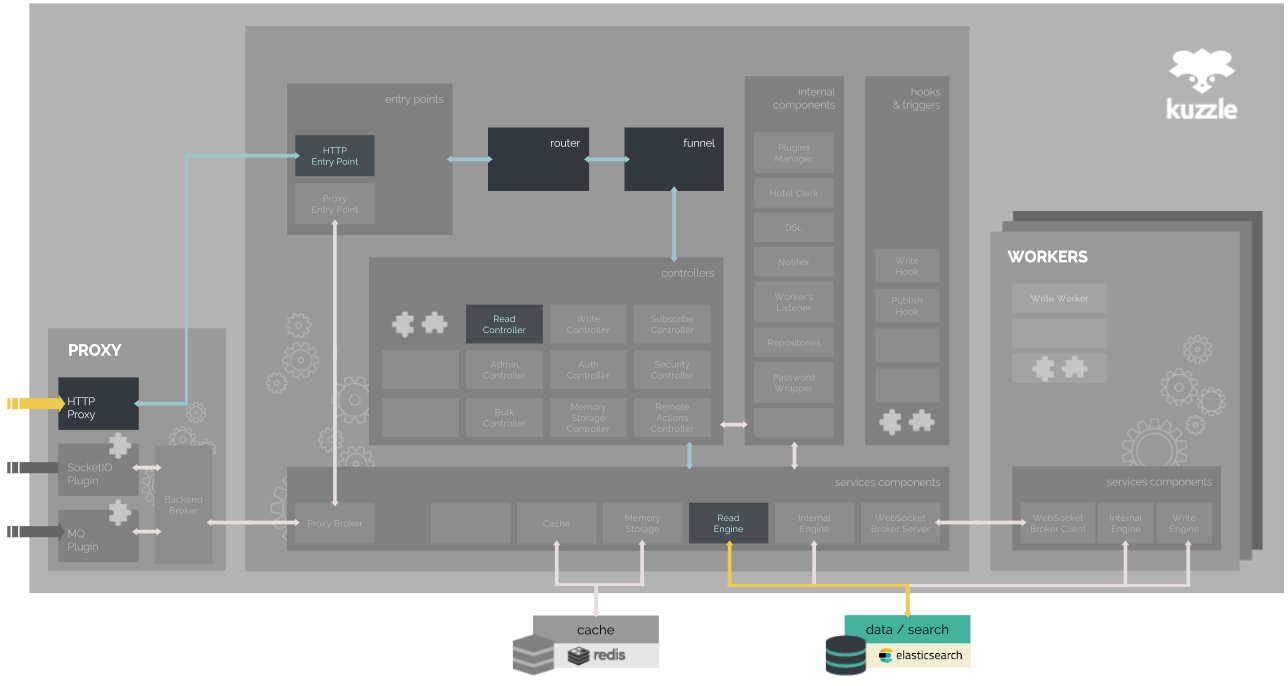
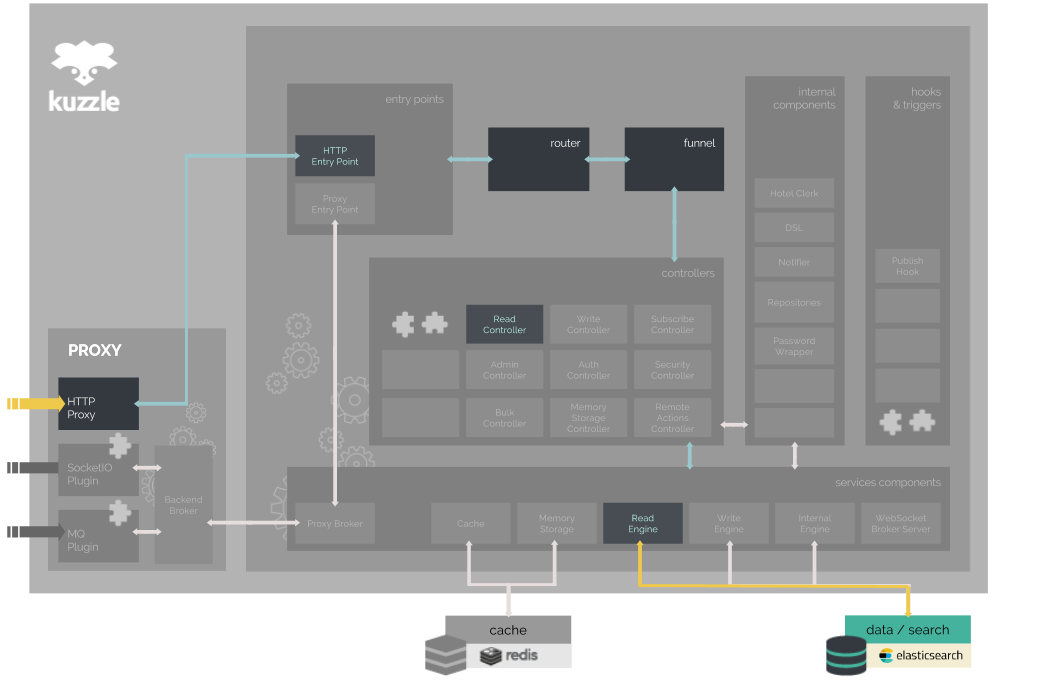
kuz-642 - worker is dead

diff --git a/source/includes/plugins/_01-managing-plugins-cli.md b/source/includes/plugins/_01-managing-plugins-cli.md
@@ -39,10 +39,8 @@ You can get an overview of installed plugins and their activation status using t
 { 'kuzzle-plugin-auth-passport-local': 
    { npmVersion: '2.0.3',
      activated: true,
-     loadedBy: 'server',
      config: 
-      { loadedBy: 'server',
-        secret: 'changeme',
+      { secret: 'changeme',
         algorithm: 'sha1',
         digest: 'hex' } },
   'kuzzle-plugin-logger': 
@@ -55,8 +53,7 @@ You can get an overview of installed plugins and their activation status using t
                { error: { level: 'error', filename: 'kuzzle-error.log' },
                  warning: { level: 'warn', filename: 'kuzzle-warning.log' } },
               addDate: true },
-           stdout: { level: 'info', addDate: true } },
-        loadedBy: 'all' } } }`
+           stdout: { level: 'info', addDate: true } } } }
 ```
 
 ### > Install a plugin
@@ -103,8 +100,7 @@ $ ./bin/kuzzle plugins --get kuzzle-plugin-logger
             { error: { level: 'error', filename: 'kuzzle-error.log' },
               warning: { level: 'warn', filename: 'kuzzle-warning.log' } },
            addDate: true },
-        stdout: { level: 'info', addDate: true } },
-     loadedBy: 'all' } }
+        stdout: { level: 'info', addDate: true } } } }
 ```
 
 ### > Modify a plugin configuration
@@ -132,8 +128,7 @@ $ ./bin/kuzzle plugins --get kuzzle-plugin-logger
              { error: { level: 'error', filename: 'kuzzle-error.log' },
                warning: { level: 'warn', filename: 'kuzzle-warning.log' } },
             addDate: true },
-         stdout: { level: 'info', addDate: true } },
-      loadedBy: 'all' } }
+         stdout: { level: 'info', addDate: true } } } }
 $ ./bin/kuzzle plugins --set '{ "stdout": { "level": "debug"} }' kuzzle-plugin-logger
   { npmVersion: '2.0.2',
     activated: true,
@@ -144,9 +139,7 @@ $ ./bin/kuzzle plugins --set '{ "stdout": { "level": "debug"} }' kuzzle-plugin-l
               { error: { level: 'error', filename: 'kuzzle-error.log' },
                 warning: { level: 'warn', filename: 'kuzzle-warning.log' } },
              addDate: true },
-          stdout: { level: 'info', addDate: true } },
-       loadedBy: 'all',
-       stdout: { level: 'debug' } } }
+          stdout: { level: 'debug' } } } }
 ```
 
 Replacing a plugin configuration on the command-line:
@@ -162,8 +155,7 @@ $ ./bin/kuzzle plugins --get kuzzle-plugin-logger
              { error: { level: 'error', filename: 'kuzzle-error.log' },
                warning: { level: 'warn', filename: 'kuzzle-warning.log' } },
             addDate: true },
-         stdout: { level: 'info', addDate: true } },
-      loadedBy: 'all' } }
+         stdout: { level: 'info', addDate: true } } } }
 $ ./bin/kuzzle plugins --replace '{"stdout": {"level": "debug", "addDate": true}}' kuzzle-plugin-logger
   { npmVersion: '2.0.2',
     activated: true,
@@ -195,12 +187,10 @@ $ ./bin/kuzzle plugins --get kuzzle-plugin-logger
             { error: { level: 'error', filename: 'kuzzle-error.log' },
               warning: { level: 'warn', filename: 'kuzzle-warning.log' } },
            addDate: true },
-        stdout: { level: 'info', addDate: true } },
-     loadedBy: 'all' } }
+        stdout: { level: 'info', addDate: true } } } }
 $ ./bin/kuzzle plugins --unset 'services' kuzzle-plugin-logger
   { npmVersion: '2.0.2',
-    activated: true,
-    config: { loadedBy: 'all' } }     
+    activated: true }
 ```
 <aside class="notice">NB: Only root properties can be unset</aside>
 
@@ -232,8 +222,7 @@ To deactivate a plugin:
             { error: { level: 'error', filename: 'kuzzle-error.log' },
               warning: { level: 'warn', filename: 'kuzzle-warning.log' } },
            addDate: true },
-        stdout: { level: 'info', addDate: true } },
-     loadedBy: 'all' } }
+        stdout: { level: 'info', addDate: true } } } }
 ```
 
 
@@ -250,7 +239,6 @@ $ ./bin/kuzzle plugins --activate kuzzle-plugin-logger
               { error: { level: 'error', filename: 'kuzzle-error.log' },
                 warning: { level: 'warn', filename: 'kuzzle-warning.log' } },
              addDate: true },
-          stdout: { level: 'info', addDate: true } },
-       loadedBy: 'all' } }
+          stdout: { level: 'info', addDate: true } } } }
 ```
 

diff --git a/source/includes/user_guide/_03-cli.md b/source/includes/user_guide/_03-cli.md
@@ -26,7 +26,7 @@ $ ./bin/kuzzle
     install                      install all plugins configured in .kuzzlerc
     likeAvirgin [options]        delete Kuzzle configuration and users from database. Makes Kuzzle look like a virgin, touched for the very first time
     plugins [options] [name]     manage plugins
-    start [options]              start a Kuzzle server|worker node
+    start [options]              start a Kuzzle instance
   Options:
 
     -h, --help      output usage information
@@ -38,7 +38,7 @@ $ ./bin/kuzzle
 ### createFirstAdmin
 
 ```
-$ ./bin/kuzzle createFirstAdmin --pid <kuzzle server pid>
+$ ./bin/kuzzle createFirstAdmin
 ```
 
 When Kuzzle runs for the first time, no users are defined and the anonymous user is granted with super admin rights.
@@ -47,15 +47,12 @@ The `createFirstAdmin` command lets you define an administrator user and set you
 
 <aside class="notice">NB: This command can only be run interactively</aside>
 
-The `pid` parameter must be the pid of a running Kuzzle server.  
-Please refer to the [start command documentation](#start) for more information about Kuzzle server vs worker modes.
-
 ### disable
 
 <aside class="warning">This command is deprecated and will be removed in next Kuzzle release.</aside>
 
 ```bash
-$ ./bin/kuzzle disable <service> <pid|all>
+$ ./bin/kuzzle disable <service>
 ```
 
 ### enable
@@ -63,7 +60,7 @@ $ ./bin/kuzzle disable <service> <pid|all>
 <aside class="warning">This command is deprecated and will be removed in next Kuzzle release.</aside>
 
 ```bash
-$ ./bin/kuzzle enable <service> <pid|all>
+$ ./bin/kuzzle enable <service>
 ```
 
 ### install
@@ -94,7 +91,6 @@ $ ./bin/kuzzle likeAvirgin --help
     Options:
   
       -h, --help             output usage information
-      --pid <pid>            [all|integer] the pid to apply the action
       --fixtures <fixtures>  import some fixtures from file
       --mappings <mappings>  load and apply mappings from file
       --noint                non interractive mode, will perform the reset immediately
@@ -106,15 +102,9 @@ If some business data were imported in Kuzzle database layer, these are kept int
 
 Its main purpose is to be used during early development cycles to iterate some new tries.
 
-The `pid` parameter must be the pid of a running Kuzzle server.  
-Please refer to the [start command documentation](#start) for more information about Kuzzle server vs worker modes.
-
 ### plugins
 
 Please refer to the [dedicated plugin CLI documentation](#managing-plugins-using-the-cli).
-
-#### install
-
 
 ### start
 
@@ -123,40 +113,17 @@ $ ./bin/kuzzle start --help
   
     Usage: start [options]
   
-    start a Kuzzle server|worker node
+    start a Kuzzle instance
   
     Options:
   
       -h, --help                 output usage information
       -p, --port <port>          Kuzzle port number
-      -s, --server               start Kuzzle in server mode (default)
-      -w, --worker               start Kuzzle in worker mode
           --likeAvirgin          delete Kuzzle configuration and users from database
           --fixtures <fixtures>  import some fixtures from file
           --mappings <mappings>  load and apply mappings from file
 ```
 
 The `start` command starts a Kuzzle instance in the foreground.
-
-#### Server vs Worker
-
-<aside class="warning">This section refers to some Kuzzle behaviour that is subject to change.<br>
-Please check this documentation again if upgrading to a new version of Kuzzle.</aside>
-
-Kuzzle nodes can work in two different modes: `server` or `worker`.
-
-A Kuzzle `server` acts as a middle-tier in Kuzzle architecture. It receives the users requests and, depending on 
-their nature, either treats them immediately or dispatch them to a `worker`.
-
-A Kuzzle `worker` acts as an interface component between Kuzzle `servers` and the database layer.
-
-The minimal components to run Kuzzle are
-
-1. An elasticsearch server/cluster
-2. A Redis server/cluster
-3. A Kuzzle proxy
-4. A Kuzzle server
-5. A Kuzzle worker
-
 
 

diff --git a/source/includes/core_documentation/_02-request-scenarios.md b/source/includes/core_documentation/_02-request-scenarios.md
@@ -273,19 +273,11 @@ Kuzzle handles data differently, depending if it's persistent or not.
 This subsection describes the process for **persistent** data, with an example using the "_create_" action.
 (see also [API Documentation](http://kuzzle.io/api-reference/#create))
 
-Remember the [Architecture overview](#core-architecture)
-
-Kuzzle persistent data writing is a 3-steps process:
-
-##### 1st step: Send a Write request to a task queue
-
-Involved components overview:
-
-![persistence_overview1](./images/request-scenarios/persistence/overview1.png)
+![persistence_overview](./images/request-scenarios/persistence/overview.png)
 
 Detailed workflow:
 
-![persistence_scenario_details1](./images/request-scenarios/persistence/details1.png)
+![persistence_scenario_details](./images/request-scenarios/persistence/details.png)
 
 \#1. A client sends new content to Kuzzle, either with an HTTP request, through a websocket connection or using a custom plugin protocol (see [Reading scenarios](#reading-content-from-kuzzle))
 
@@ -314,49 +306,15 @@ Detailed workflow:
 \#3. The ```Funnel``` validates the message and forward the request to the ```Write Controller```
 
 \#4. The ```Write Controller``` triggers the ```Plugins Manager``` with a "data:create" event.<br/>
-The ```Plugins Manager``` calls all pipes and hooks configured by the active plugins (see [Plugin's documentation](#plugins)), and finally triggers the "add" event of the ```Write Hook```.<br/>
-The ```Write Hook``` sends the request to the ```Internal Broker```. (see [Hooks Readme](https://github.com/kuzzleio/kuzzle/blob/master/lib/hooks/README.md) for more details about hooks).
+The ```Plugins Manager``` calls all pipes and hooks configured by the active plugins (see [Plugin's documentation](#plugins)).
 
-\#5. The ```Write Controller``` asks the ```Worker Listener``` to listen to the ```Internal Broker```'s feedback message.
+\#5. The ```Write Controller``` sends the request to the ``WriteEngine``service.
 
-That way Kuzzle parallelizes the processing of writing contents.
+The `Write Engine` sends the request to the database.
 
-##### 2nd step: Save content into the storage engine
+\#6. Once the `Write Engine` gets the response back, it replies to the `Write Controller`
 
-Involved components overview:
-
-![persistence_overview2](./images/request-scenarios/persistence/overview2.png)
-
-Detailed workflow:
-
-![persistence_scenario_details2](./images/request-scenarios/persistence/details2.png)
-
-\#6. A ```Write Worker``` is notified by the internal broker about a new write request.
-
-\#7. The worker calls the ```Write Engine``` service.
-
-\#8. The ```Write Engine``` service performs a request to send the data to the data storage.
-
-\#9. Promises functions are resolved to forward the response message back to the ```Write Worker```
-
-\#10. The worker sends the feedback message from ElasticSearch to the worker _response_ queue (see \#5).
-
-##### 3rd step: Send feedback
-
-Involved components overview:
-
-![persistence_overview3](./images/request-scenarios/persistence/overview3.png)
-
-Detailed workflow:
-
-![persistence_scenario_details3](./images/request-scenarios/persistence/details3.png)
-
-\#11. The ```Worker Listener``` that the ```Write Controller``` registered in step \#5. receive a notification from the ```Internal Broker```...
-
-\#12. ... and forwards it to the ```Write Controller```, who then forwards it to the ```Funnel```, who in turn forwards it to ```Router Controller```...
-
-\#13. ... which sends a feedback to the client.
-
+\#7. The `Write Controller` wraps the response in a Kuzzle Response and forwards it back to the user.
 
 #### Subscribe and Notification scenario
 

diff --git a/source/includes/user_guide/_01-installation-linux.md b/source/includes/user_guide/_01-installation-linux.md
@@ -209,13 +209,7 @@ $ ./bin/kuzzle install
 Start a server instance (we override the default port to avoid a conflict with the proxy):
 
 ```bash
-$ kuzzle_httpPort=17511 ./bin/kuzzle start --server
-```
-
-And then start as many worker instances as you want. At least one worker is required:
-
-```bash
-$ bin/kuzzle start --worker
+$ kuzzle_httpPort=17511 ./bin/kuzzle start
 ```
 
 For more information, you can execute:
@@ -243,8 +237,7 @@ $ export WRITE_ENGINE_HOST=localhost:9200
 $ export CACHE_HOST=localhost
 $ export CACHE_PORT=6379
 $ ./bin/kuzzle install
-$ kuzzle_httpPort=17511 ./bin/kuzzle start --server
-$ ./bin/kuzzle start --worker
+$ kuzzle_httpPort=17511 ./bin/kuzzle start
 ```
 
 #### Run it again
@@ -262,8 +255,7 @@ $ export READ_ENGINE_HOST=localhost:9200
 $ export WRITE_ENGINE_HOST=localhost:9200
 $ export CACHE_HOST=localhost
 $ export CACHE_PORT=6379
-$ kuzzle_httpPort=17511 ./bin/kuzzle start --server
-$ ./bin/kuzzle start --worker
+$ kuzzle_httpPort=17511 ./bin/kuzzle start 
 ```
 
 #### Going further

diff --git a/source/includes/core_documentation/_01-architecture.md b/source/includes/core_documentation/_01-architecture.md
@@ -69,14 +69,3 @@ Kuzzle currently implements the following Services:
 
 A Service can be added to different engines. For example, Elasticsearch is used by both the writeEngine and the readEngine (see [lib/config/services.js](https://github.com/kuzzleio/kuzzle/blob/master/lib/config/services.js)).
 
-### > Workers
-
-A worker is an independant component, detachable from a Kuzzle server container. It can be run in another container or even on another machine.
-
-Workers attach themselves to the internal broker service fed by Kuzzle to perform any kind of task.
-
-For instance, writing persistent data on Kuzzle is implemented as a write worker.
-
-Additionally, serveral Workers of the same type can be launched in parallel, on the same or on a different host.
-
-This flexibility allows administrators of Kuzzle system to leverage their resource consumption and distribute and/or scale their services to better fit their needs.

diff --git a/source/includes/plugins/_02-plugin-prerequisites.md b/source/includes/plugins/_02-plugin-prerequisites.md
@@ -37,7 +37,6 @@ Where:
 
 | Keyword | Type | Default Value |Description                  |
 |---------|------|---------------|-----------------------------|
-|`loadedBy`|`string`| `"all"` | Tells Kuzzle to only load the plugin by `"server"`, `"worker"` or `"all"` instances types |
 |`threads`|`unsigned integer`|`0`| If > 0, the plugin will be treated as a worker plugin (see below) |
 |`privileged`|`boolean`|`false`| If `true`, the plugin is loaded with privileged access to the running Kuzzle instance (see Plugin Context below)<br/>Ignored if `threads` is greater than `0` |
 
